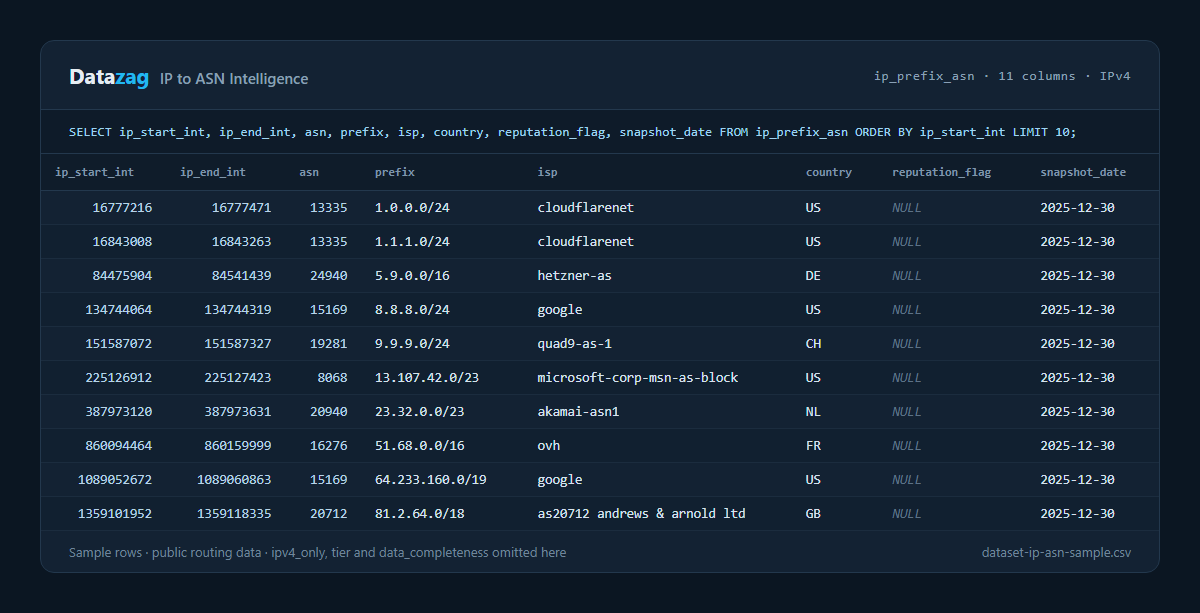
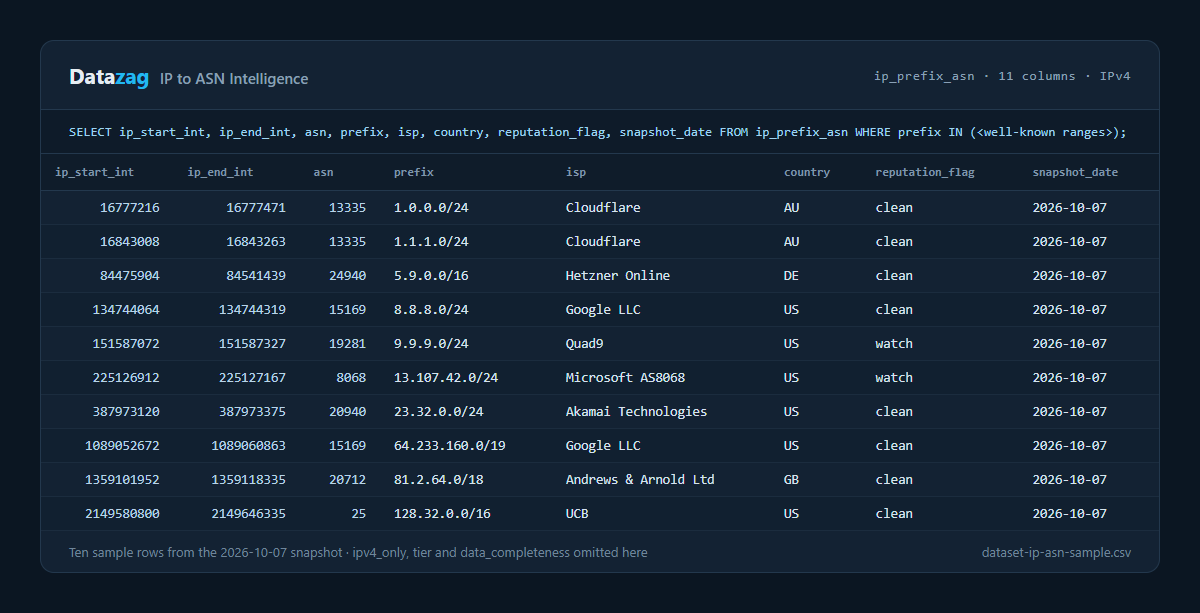
Homepage: hero copy tweak; dataset sample from the live table
- Hero text per Peter (7 Oct): "We track domains and their DNS ...", and the
  live line reads "Latest coverage: <figure> resolving domains · measured <date>".
- IP-to-ASN sample rows regenerated from publish.ip_prefix_asn (snapshot
  2026-10-07, read-only), reputation bands populated. Five prefixes the
  live table splits finer use the live range that contains them. One row
  flagged risky on a named provider swapped for another well-known range.

diff --git a/components/home/HomePage.tsx b/components/home/HomePage.tsx
@@ -123,7 +123,7 @@ export default async function HomePage() {
             </p>
             <h1 className="mt-6 text-4xl font-semibold tracking-tight text-white sm:text-5xl md:text-6xl">{HERO.title}</h1>
             <p className="mt-6 max-w-2xl text-lg leading-8 text-slate-300 md:text-xl">
-              {HERO.intro.join(" ").replace("{domains}", stats.DOMAINS_DISPLAY)}
+              {HERO.intro.join(" ")}
             </p>
             <div className="mt-8 flex flex-col gap-3 sm:flex-row">
               <TrackedLink href={HERO.primary.href} event="hero_cta_click" params={{ cta: "free_report" }} className={primaryBtn}>
@@ -135,8 +135,8 @@ export default async function HomePage() {
             </div>
             <p className="mt-8 text-sm text-slate-400">
               <span className="mr-2 inline-block h-2 w-2 rounded-full bg-emerald-400 align-middle" aria-hidden="true" />
-              Live: {stats.DOMAINS_DISPLAY} resolving domains
-              {domainsAsOf ? <> · as of {domainsAsOf}</> : null}
+              {HERO.coverageLabel}: {stats.DOMAINS_DISPLAY} {HERO.coverageUnit}
+              {domainsAsOf ? <> · {HERO.measuredLabel} {domainsAsOf}</> : null}
               {observatory.show ? (
                 <>
                   {" · "}

diff --git a/components/home/copy.ts b/components/home/copy.ts
@@ -17,12 +17,14 @@
 export const HERO = {
   eyebrow: "For MSSPs, email platforms, cyber insurers and data teams",
   title: "Internet infrastructure intelligence you can act on.",
-  // {domains} is filled from the live stats.
   intro: [
-    "We track {domains} resolving domains, with their DNS, certificates and routing.",
-    "We flag new attack infrastructure as it is set up.",
-    "Use it to find hidden assets, assess risk and power your own security products.",
+    "We track domains and their DNS, certificates and routing to flag signs of attack infrastructure as it is set up.",
+    "Use the intelligence to discover hidden assets, assess infrastructure risk and power your own security and email products.",
   ],
+  // The live line under the buttons; the figure and date are filled from the live stats.
+  coverageLabel: "Latest coverage",
+  coverageUnit: "resolving domains",
+  measuredLabel: "measured",
   primary: { label: "Get your free domain health report", href: "#free-report" },
   secondary: { label: "Explore datasets and sample outputs", href: "#samples" },
   observatoryLink: "Explore the Observatory",
